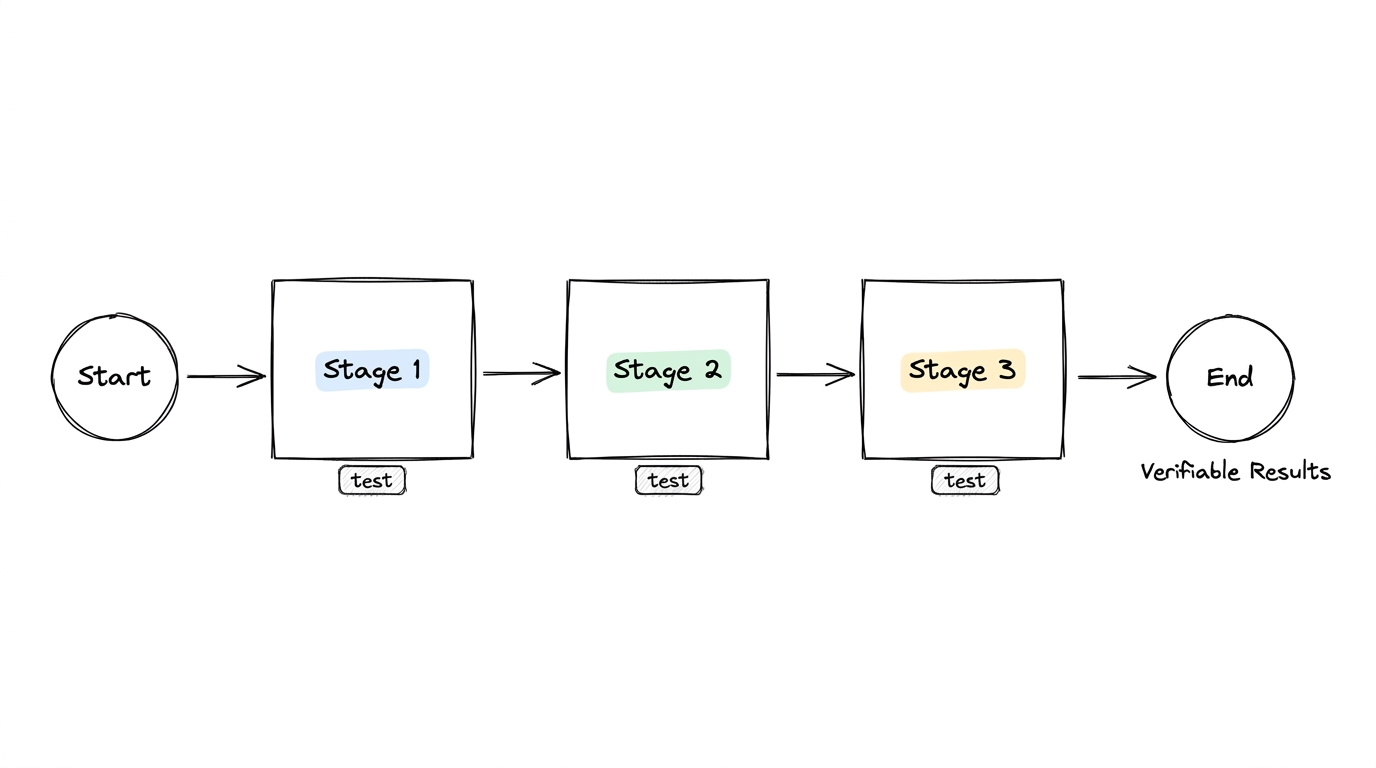
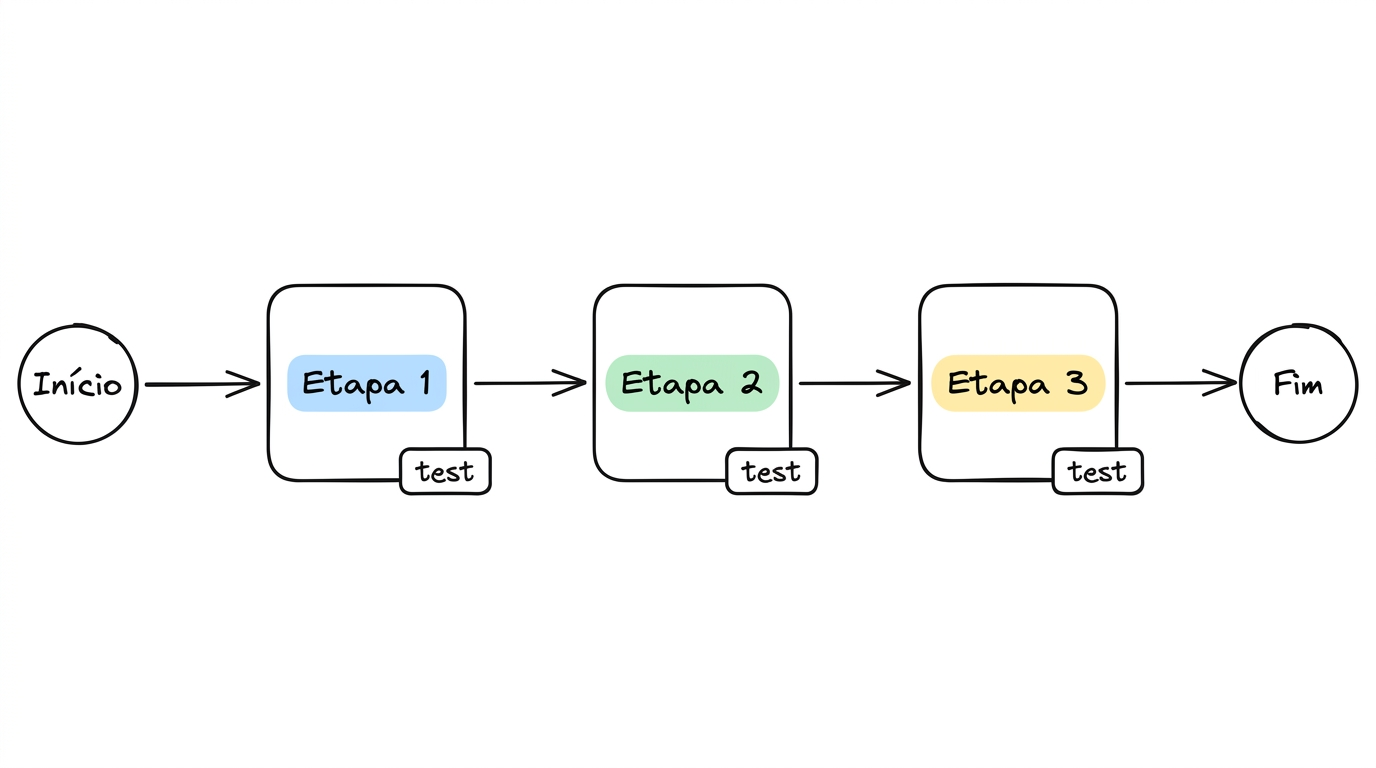
refactor(blog): use explicit etapa 1 2 3 diagrams and bust cache

Changed region(s): [[0.0, 0.3438, 1.0, 0.6562], [0.625, 0.3438, 0.8125, 0.4062], [0.5625, 0.375, 0.5938, 0.4062]]

diff --git a/src/data/portfolio.ts b/src/data/portfolio.ts
@@ -317,7 +317,7 @@ export const portfolioData: PortfolioConfig = {
       tags: ["AI", "Scientometrics", "Data Engineering", "Python", "Open Source"],
       url: "/blog/how-i-use-ai-in-scientific-research-auditable-pipelines",
       summary: "Why treating scientific methodology like a software engineering pipeline turns messy academic data collection into reproducible, testable, and auditable research.",
-      image: "/images/blog/scientific-ai-pipeline/pipeline-metodologica.jpg",
+      image: "/images/blog/scientific-ai-pipeline/pipeline-etapas.jpg",
       sections: [
         {
           heading: "Approaching Academic Research with a Developer Mindset",
@@ -336,22 +336,22 @@ export const portfolioData: PortfolioConfig = {
         {
           heading: "The Theoretical Model: Scientific Methodology as a Pipeline",
           image: {
-            src: "/images/blog/scientific-ai-pipeline/pipeline-metodologica.jpg",
-            alt: "Conceptual scientific pipeline diagram: Start -> Stage 1 -> Stage 2 -> Stage 3 -> End",
+            src: "/images/blog/scientific-ai-pipeline/pipeline-etapas.jpg",
+            alt: "Conceptual scientific pipeline diagram: Início -> Etapa 1 -> Etapa 2 -> Etapa 3 -> Fim",
             caption: "The abstract model: Any data-driven research workflow deconstructs into sequential stages separated by automated verification gates."
           },
           paragraphs: [
             "Before diving into lines of code or specific datasets, it helps to step back and examine the conceptual model. At an abstract level, almost any empirical research study that processes data can be conceptualized as a unidirectional software pipeline.",
             "The defining characteristic of this approach is working backward from the research objective:",
             "1. You Start with the End in Mind: The objective of your study (the 'End' node) is fixed by your research question or formal hypothesis (for example: 'How do software adoption patterns correlate with empirical data sources across specialized literature?').",
-            "2. Deconstruction into Modular Stages: Because you know the required output format (e.g., a validated statistical matrix or citation network), you can decompose the path into discrete, sequential steps: Ingestion (Stage 1), Transformation & Validation (Stage 2), and Enrichment & Semantic Analysis (Stage 3).",
+            "2. Deconstruction into Modular Stages: Because you know the required output format (e.g., a validated statistical matrix or citation network), you can decompose the path into discrete, sequential steps: Ingestion (Etapa 1), Transformation & Validation (Etapa 2), and Enrichment & Semantic Analysis (Etapa 3).",
             "3. Verification Gates: Between every single stage, there is an automated validation checkpoint. Stage 2 never assumes Stage 1 succeeded silently; it executes unit test assertions and schema guards against the incoming data contract. If an upstream format changes, the pipeline fails early, loudly, and locally before corrupted data reaches your analytical models."
           ]
         },
         {
           heading: "Folder Architecture: Decoupling Lifecycle and Verification",
           image: {
-            src: "/images/blog/scientific-ai-pipeline/arquitetura-pastas-testes.jpg",
+            src: "/images/blog/scientific-ai-pipeline/arquitetura-etapas.jpg",
             alt: "Directory structure separating stages, test guards, and tiered data directories",
             caption: "Directory architecture: Every script in src/stages/ mirrors a dedicated test file in tests/, with strict tiered data separation."
           },
@@ -362,7 +362,7 @@ export const portfolioData: PortfolioConfig = {
           ],
           code: {
             language: "text",
-            code: "research-project/\n├── data/\n│   ├── raw/                  # Pristine API responses and raw dumps (read-only, never modified)\n│   ├── processed/            # Cleaned, schema-validated JSON records and checkpoints\n│   └── outputs/              # Final publication-ready matrices, CSVs, and plots\n├── src/\n│   └── stages/\n│       ├── 01_stage_1.py         # Single responsibility: Stage 1 data extraction & caching\n│       ├── 02_stage_2.py         # Stage 2: parsing, deduplication, schema normalization\n│       └── 03_stage_3.py         # Stage 3: AI enrichment with strict schema, metrics calculation\n└── tests/\n    ├── test_stage_1.py           # Verifies Stage 1 extraction integrity and schema invariants\n    ├── test_stage_2.py           # Verifies Stage 2 sanitization and deterministic transitions\n    └── test_stage_3.py           # Verifies Stage 3 JSON schema conformance and outputs",
+            code: "research-project/\n├── data/\n│   ├── raw/                  # Pristine API responses and raw dumps (read-only, never modified)\n│   ├── processed/            # Cleaned, schema-validated JSON records and checkpoints\n│   └── outputs/              # Final publication-ready matrices, CSVs, and plots\n├── src/\n│   └── stages/\n│       ├── 01_etapa_1.py         # Single responsibility: Stage 1 data extraction & caching\n│       ├── 02_etapa_2.py         # Stage 2: parsing, deduplication, schema normalization\n│       └── 03_etapa_3.py         # Stage 3: AI enrichment with strict schema, metrics calculation\n└── tests/\n    ├── test_etapa_1.py           # Verifies Stage 1 extraction integrity and schema invariants\n    ├── test_etapa_2.py           # Verifies Stage 2 sanitization and deterministic transitions\n    └── test_etapa_3.py           # Verifies Stage 3 JSON schema conformance and outputs",
             caption: "Directory layout enforcing single-responsibility stages and automated test coverage."
           }
         },
@@ -371,7 +371,7 @@ export const portfolioData: PortfolioConfig = {
             "This layout enforces three practical safeguards:"
           ],
           bullets: [
-            "Fault Isolation: If Stage 1 extraction changes, only 01_stage_1.py and test_stage_1.py require updates. Stages 2 and 3 remain untouched.",
+            "Fault Isolation: If Stage 1 extraction changes, only 01_etapa_1.py and test_etapa_1.py require updates. Stages 2 and 3 remain untouched.",
             "Local Caching & Polite Scraping: Because raw responses persist in data/raw/, you can test and iterate on transformation logic hundreds of times without sending a single redundant HTTP request to external servers.",
             "Auditability by Independent Peers: Any reviewer or collaborator can run pytest to inspect intermediate outputs and verify that every transformation behaves according to the published methodology."
           ]
